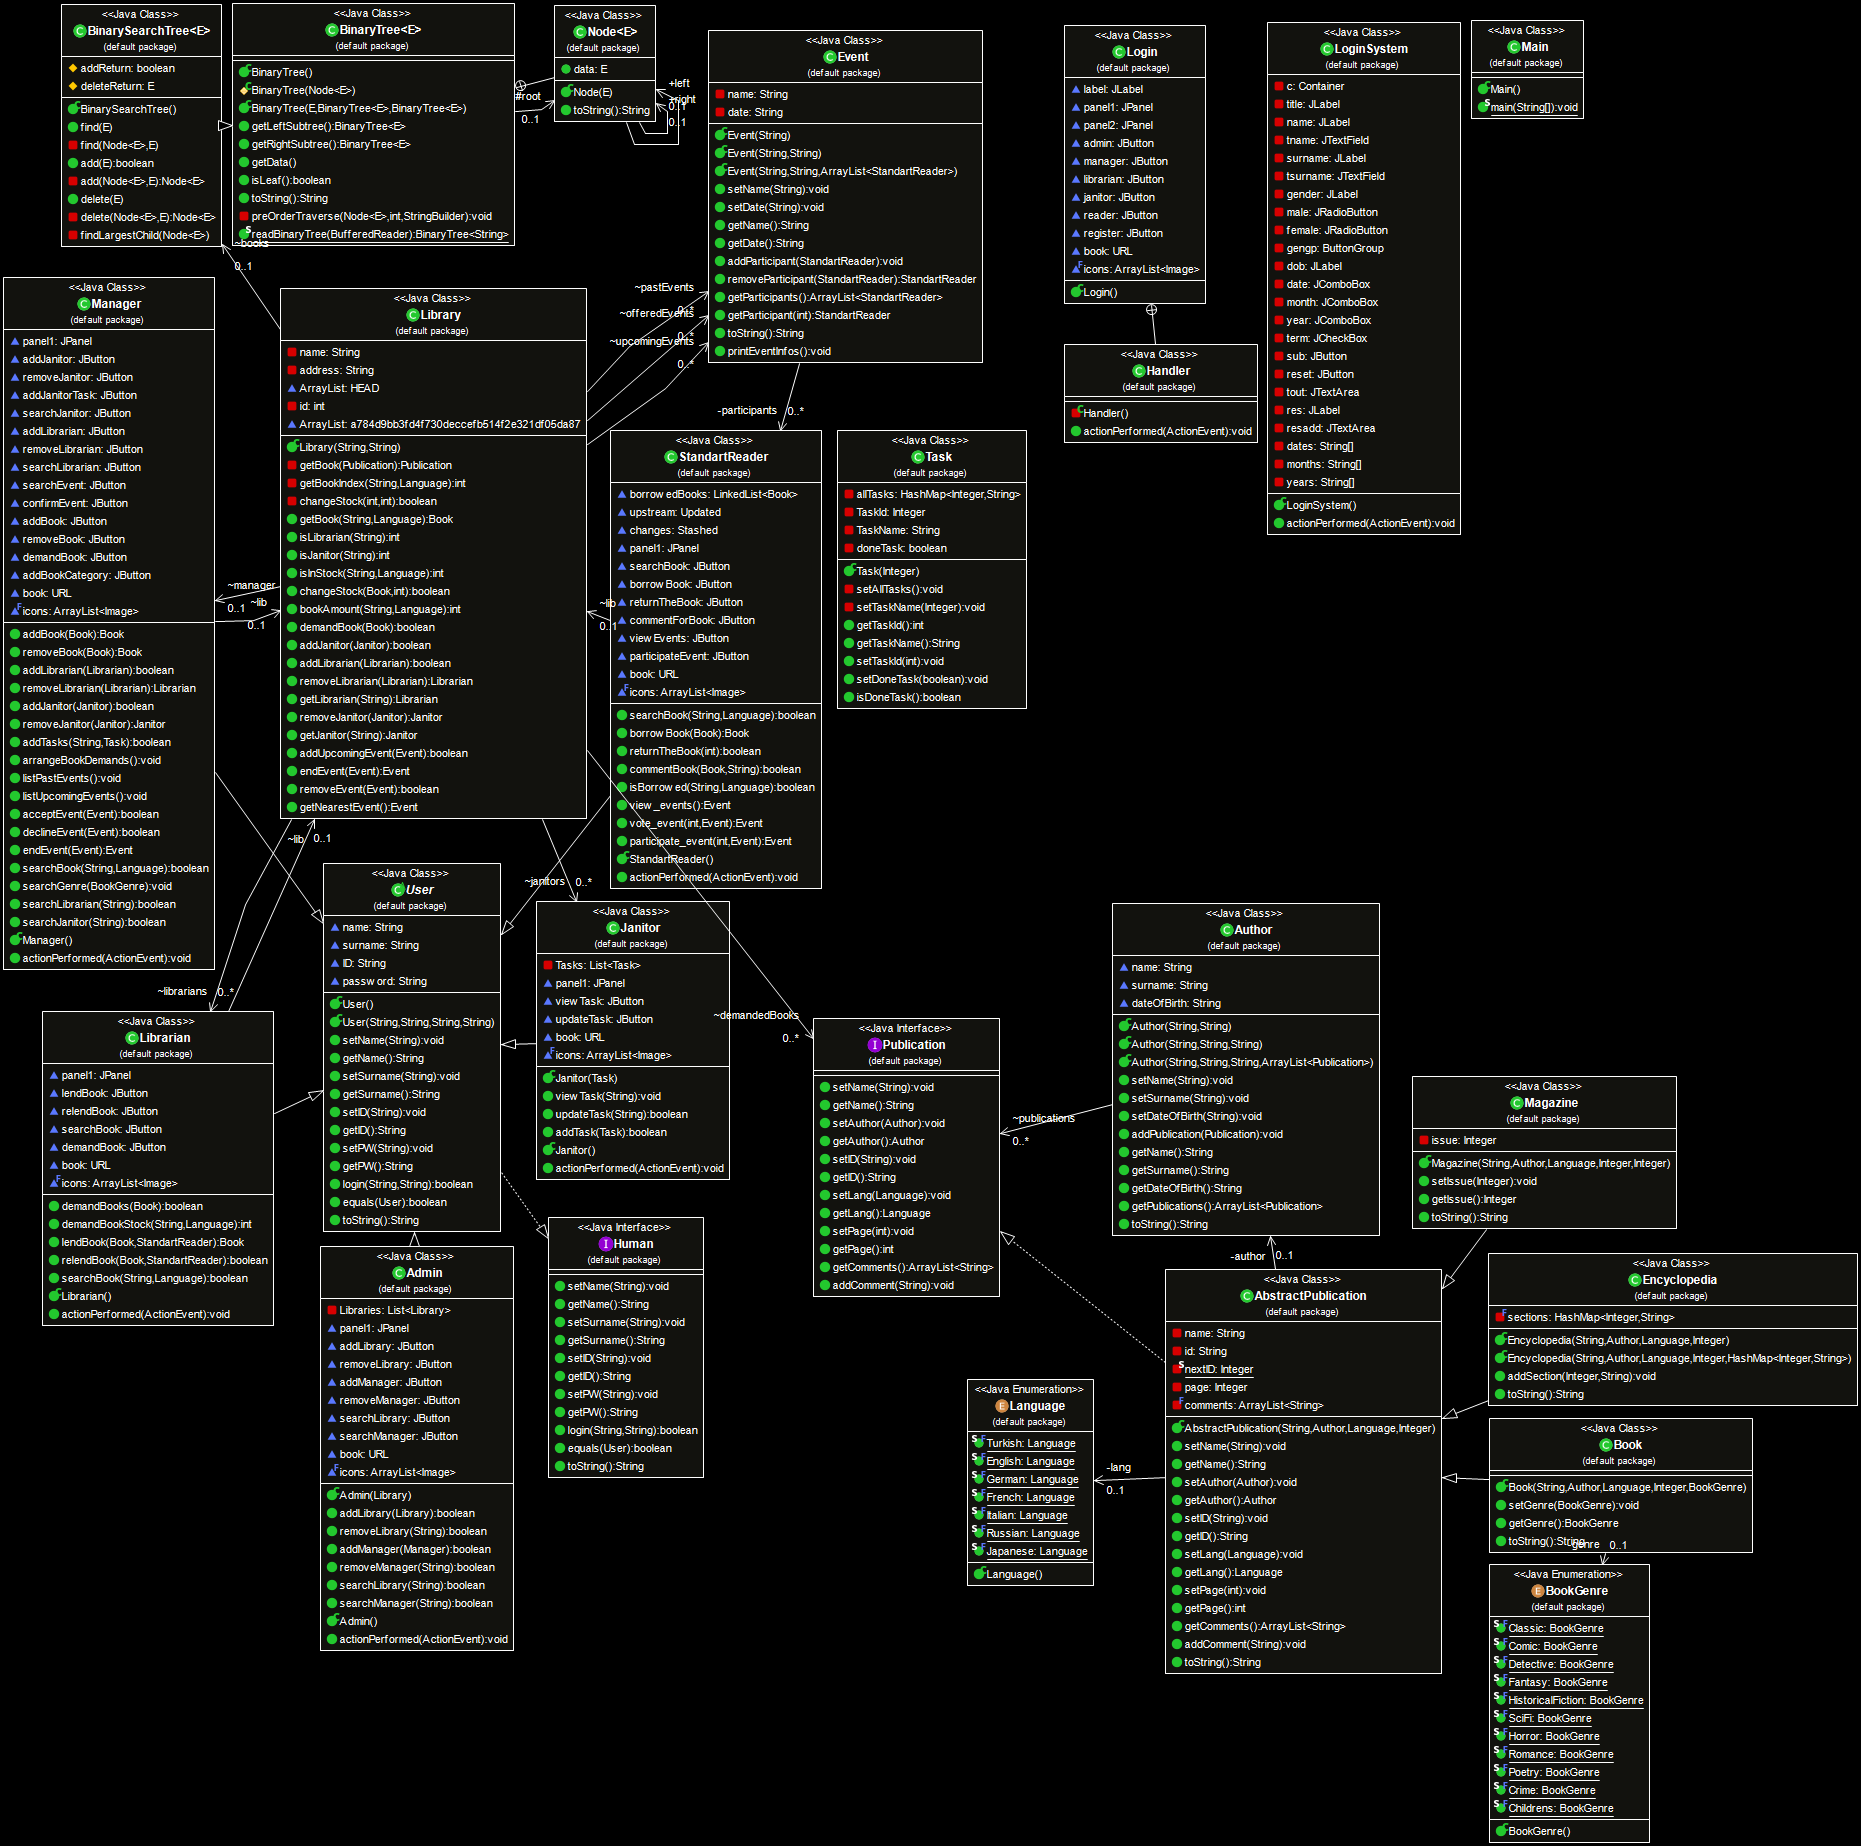
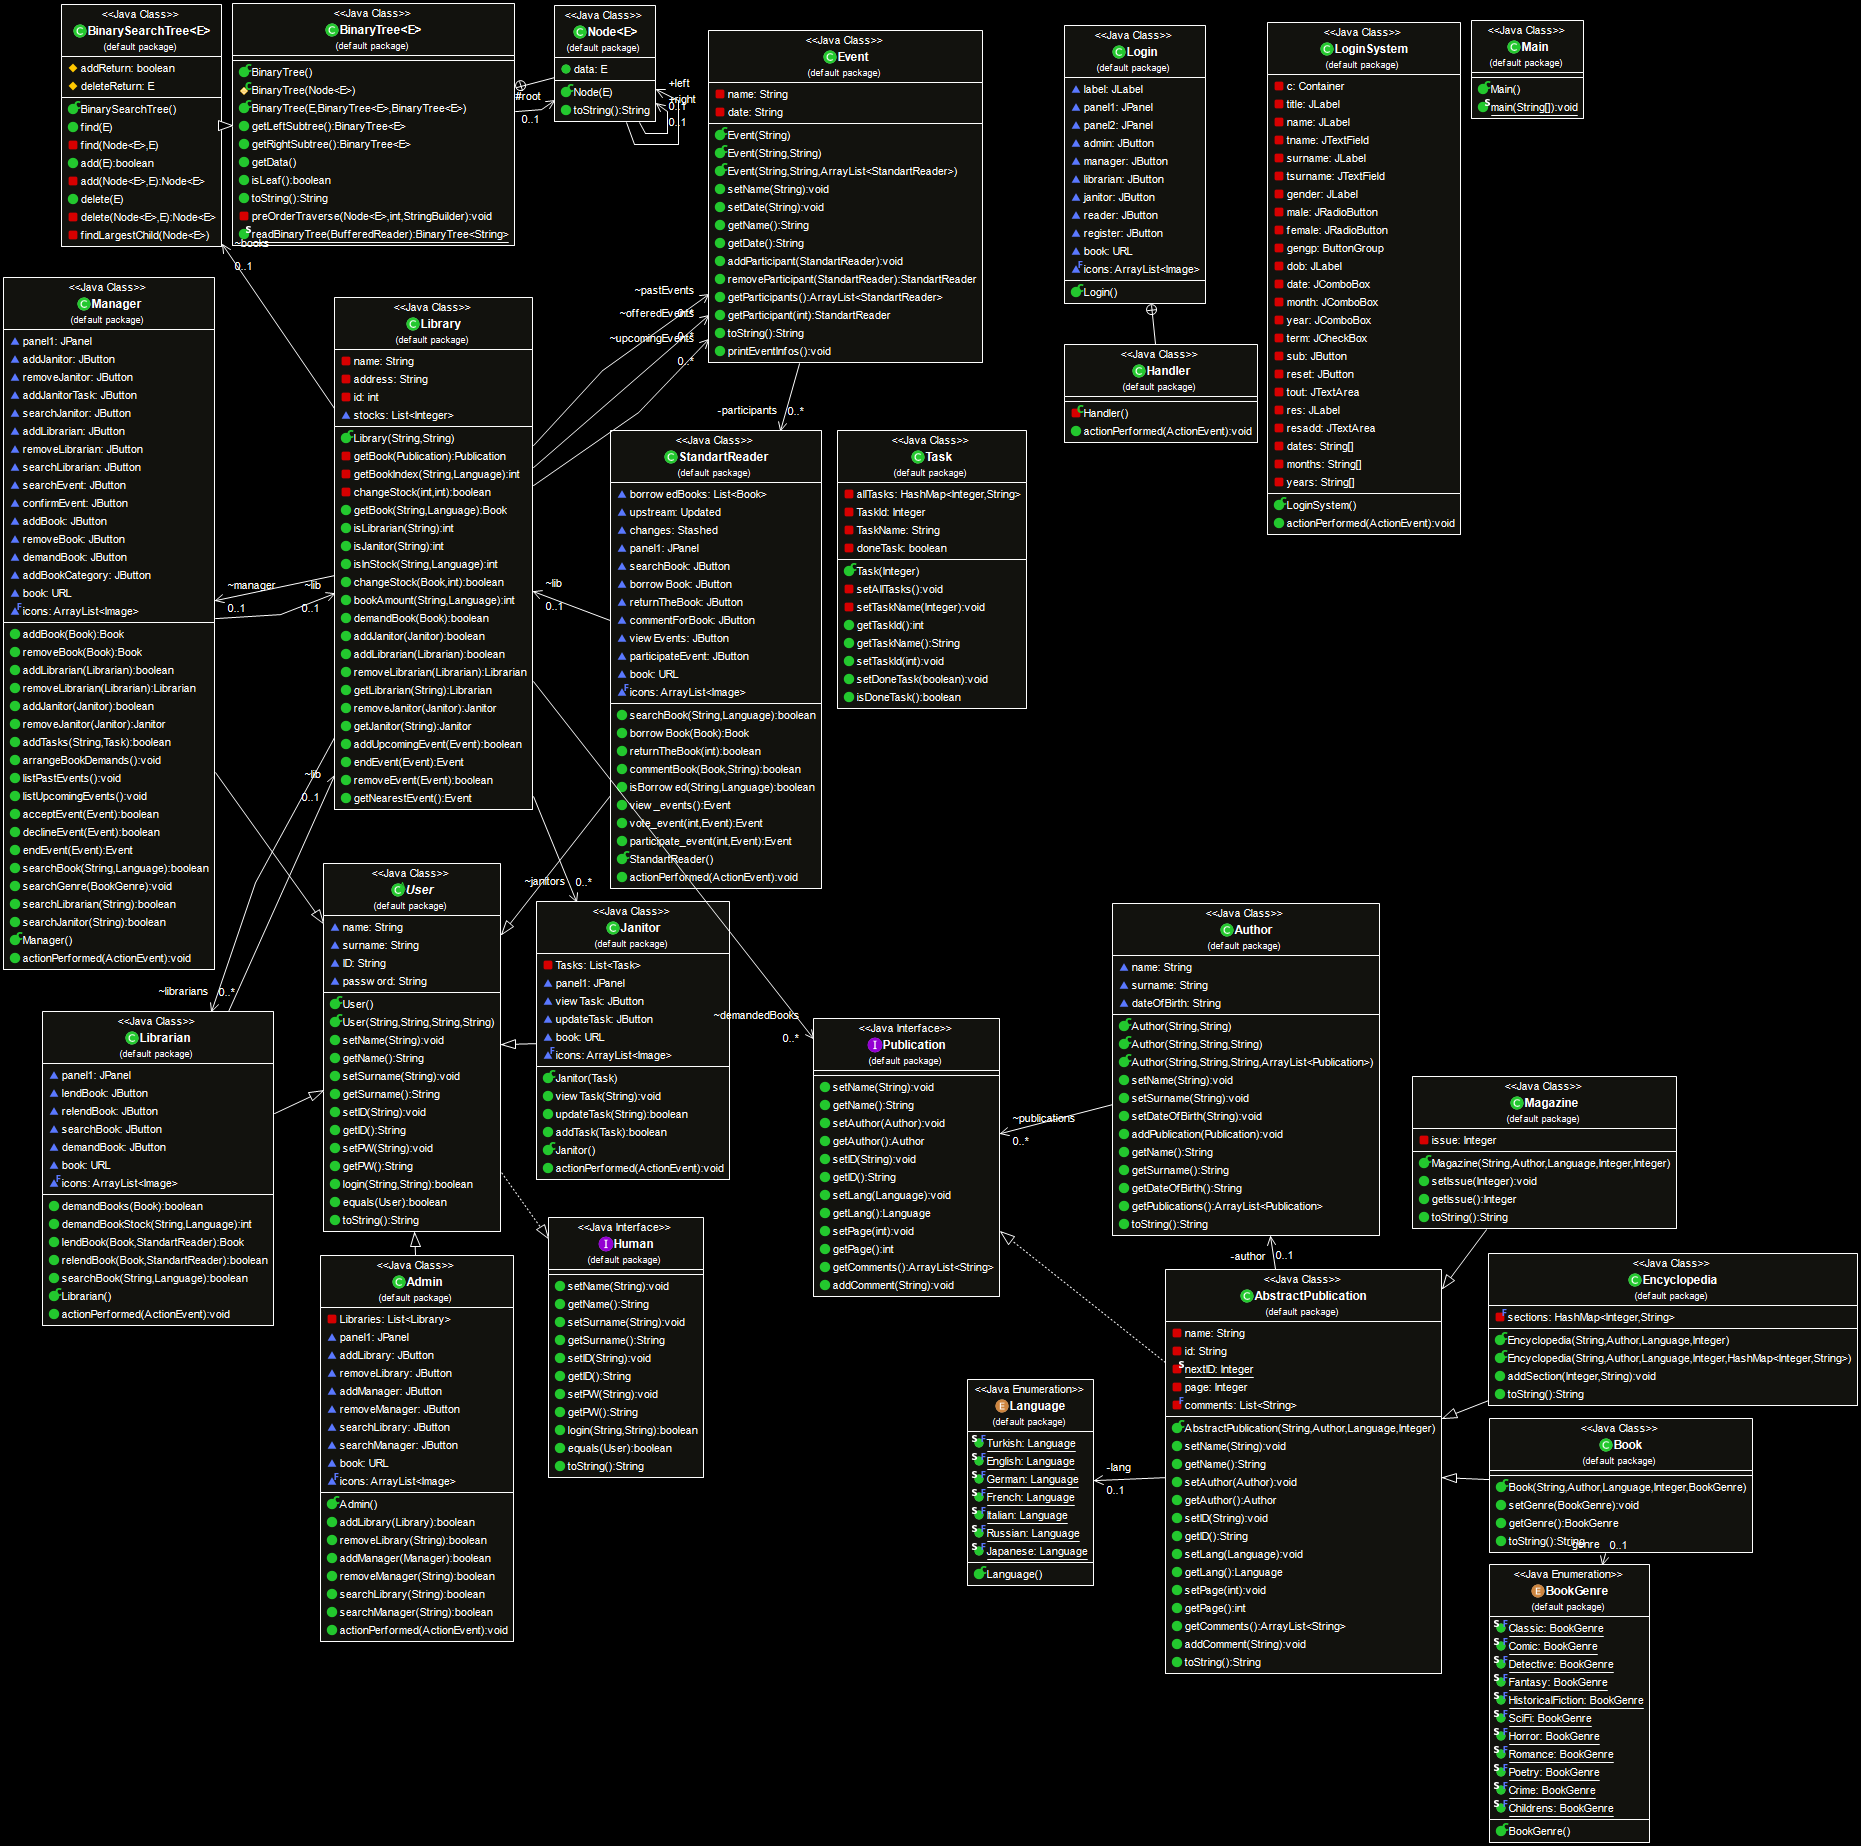
Osman

diff --git a/src/Library.java b/src/Library.java
@@ -1,5 +1,6 @@
 import java.util.ArrayList;
 import java.util.PriorityQueue;
+import java.util.List;
 
 
 /**
@@ -18,23 +19,20 @@ import java.util.PriorityQueue;
 public class Library{
     private String name;
     private String address;
-<<<<<<< HEAD
     //private String ID;
-    ArrayList<Book> books;
-=======
     private int id;
 
-    BinarySearchTree<Publication> books;
-    ArrayList<Publication> demandedBooks;
->>>>>>> a784d9bb3fd4f730deccefb514f2e321df05da87
-    ArrayList<Integer> stocks;
+    BinarySearchTree<Publication> books;// books will be publications
     PriorityQueue<Event> upcomingEvents;
-    ArrayList<Event> pastEvents;
-    ArrayList<Event> offeredEvents;
+
+    List<Publication> demandedBooks;
+    List<Integer> stocks;
+    List<Event> pastEvents;
+    List<Event> offeredEvents;
 
     Manager manager;
-    ArrayList<Librarian> librarians;
-    ArrayList<Janitor> janitors;
+    List<Librarian> librarians;
+    List<Janitor> janitors;
     
 
     public Library(String name, String address){

diff --git a/src/StandartReader.java b/src/StandartReader.java
@@ -16,7 +16,7 @@ public class StandartReader extends User implements ActionListener
     /**Holds the information of the library that this StandartUser is a member of*/
     Library lib;
 
-    LinkedList<Book> borrowedBooks;
+    List<Publication> borrowedBooks;
 
     /**
 	 * Searches for a specific book in the library stock.
@@ -63,7 +63,6 @@ public class StandartReader extends User implements ActionListener
     public boolean isBorrowed(String bbokName, Language bookLanguage)
     {}
 
-<<<<<<< Updated upstream
     /**
 	 * viewing the events in the library
 	 * @return list of events in the library
@@ -85,8 +84,7 @@ public class StandartReader extends User implements ActionListener
 	public Event participate_event(int vote , Event event)
 	{}
 
-=======
->>>>>>> Stashed changes
+
     JPanel panel1;
     /**
      * Reader of the library

diff --git a/src/Janitor.java b/src/Janitor.java
@@ -12,11 +12,13 @@ import java.net.MalformedURLException;
 import java.net.URL;
 import java.util.ArrayList;
 import java.util.PriorityQueue;
+import java.util.List;
+import java.util.Queue;
 
 
 public class Janitor extends User implements ActionListener{
 
-	private List<Task> Tasks;
+	private Queue<Task> Tasks;
 	
     /**
      * Constructor of Task
@@ -24,7 +26,7 @@ public class Janitor extends User implements ActionListener{
      */
     public Janitor(Task Task)
     {
-        Tasks = new ArrayList<Task>(Task);
+        Tasks = new Queue<Task>(Task);
     }
     /**
      * It views all of the task that belongs to janitor
@@ -44,7 +46,7 @@ public class Janitor extends User implements ActionListener{
      */
     public boolean addTask(Task New)
     { 
-        return Tasks.add(New);
+        return Tasks.push(New);
     }
     
     

diff --git a/src/Admin.java b/src/Admin.java
@@ -11,6 +11,7 @@ import java.net.MalformedURLException;
 import java.net.URL;
 import java.util.ArrayList;
 import java.util.LinkedList;
+import java.util.List;
 
 public class Admin extends User implements ActionListener{
 
@@ -27,9 +28,9 @@ public class Admin extends User implements ActionListener{
     * @param Library New Library
     * @param Manager New Manager
     */
-    public Admin(Library Library)
+    public Admin()
     {
-        Libraries = new ArrayList<Library>(Library);
+        Libraries = new ArrayList<Library>();
     }
     /**
      * To add library in Data

diff --git a/src/AbstractPublication.java b/src/AbstractPublication.java
@@ -1,4 +1,5 @@
 import java.util.ArrayList;
+import java.util.List;
 
 /**
  * Abstract Publication class for all publications of the system.
@@ -11,8 +12,8 @@ public class AbstractPublication implements Publication {
     private static Integer nextID = 10000;
     private Language lang;
     private Integer page;
-    private final ArrayList<String> comments;
-
+    private final List<String> comments;
+    
     /**
      * Constructor for AbstractPublication.
      * @param nm Name of the publication.

diff --git a/src/Author.java b/src/Author.java
@@ -1,4 +1,5 @@
 import java.util.ArrayList;
+import java.util.List;
 
 /**
  * Author class for Automation System. Holds info of an Author.
@@ -8,7 +9,7 @@ public class Author {
     String name;
     String surname;
     String dateOfBirth;
-    ArrayList<Publication> publications;
+    List<Publication> publications;
 
     /**
      * Constructor for Author.

diff --git a/src/Event.java b/src/Event.java
@@ -1,4 +1,5 @@
 import java.util.ArrayList;
+import java.util.List;
 
 /**
  * Event class for the Automation System.
@@ -9,7 +10,7 @@ public class Event {
 	
 	private String name;
 	private String date;
-	private ArrayList<StandartReader>participants;
+	private List<StandartReader>participants;
 	
 	
 	/**
